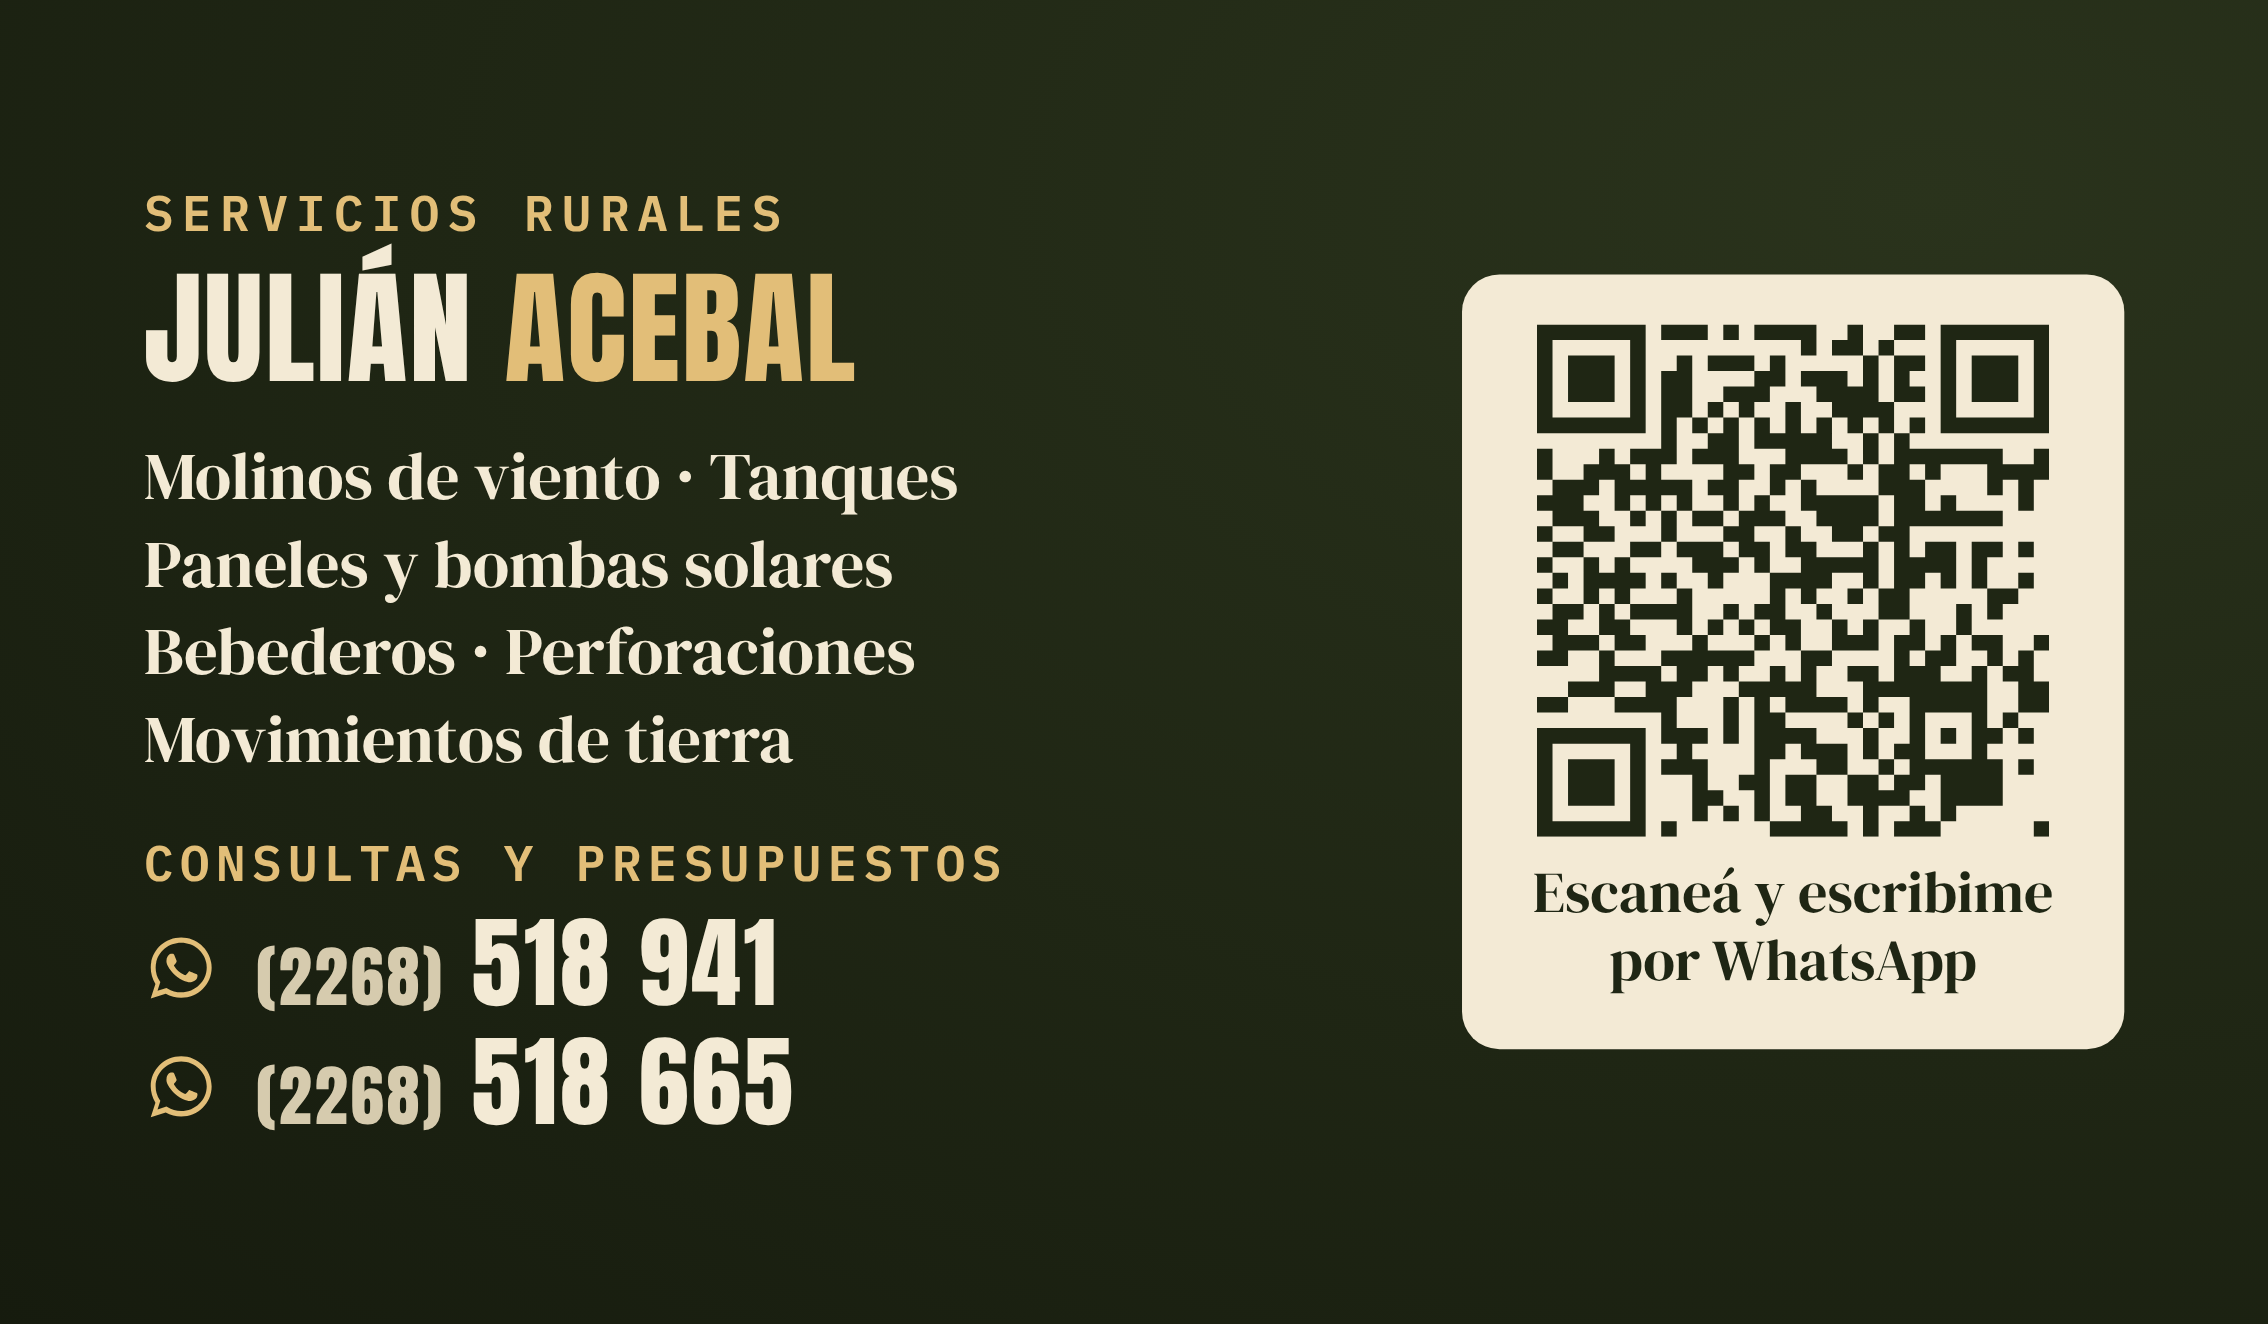
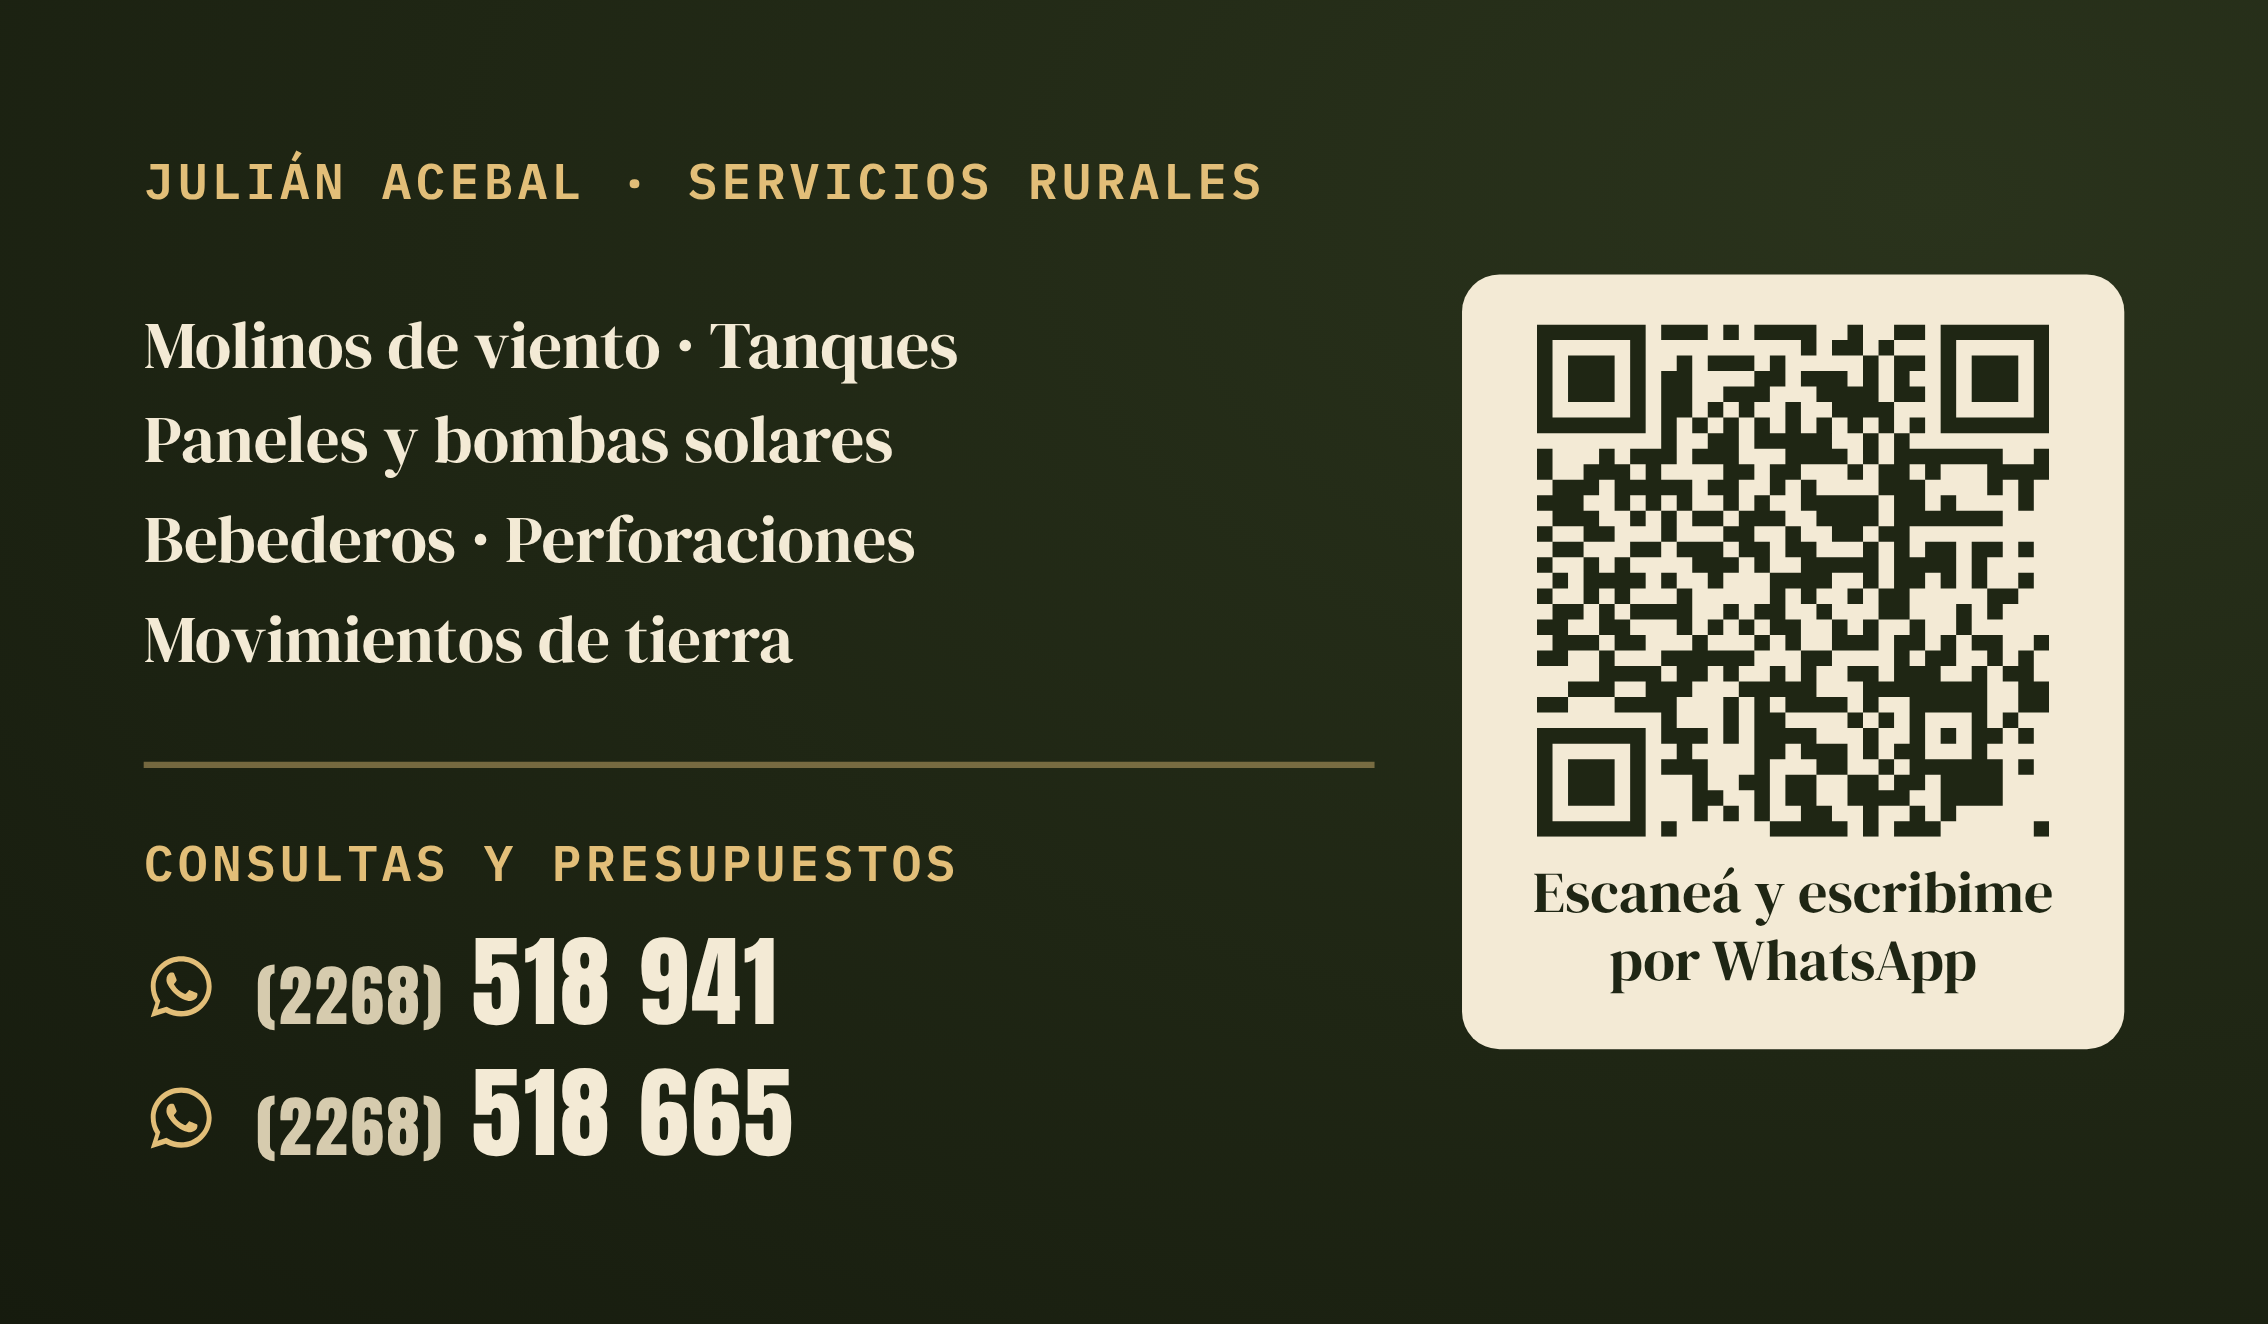
Tarjeta: dorso con más aire, servicios y contacto en dos grupos
Claude-Session: https://claude.ai/code/session_015aPumiBcapQc9Zahey1MkY

Changed region(s): [[0.0617, 0.1238, 0.5864, 0.5879], [0.0617, 0.6189, 0.4321, 0.8974]]

diff --git a/flyer-molinero/tarjeta/tarjeta-imprenta.html b/flyer-molinero/tarjeta/tarjeta-imprenta.html
@@ -21,14 +21,12 @@
 </div>
 </div></div>
 <div class="page" id="dorso"><div style="position: relative; width: 363px; height: 212px; overflow: hidden; box-sizing: border-box; padding: 23px 23px 23px 23px; background: radial-gradient(120% 120% at 85% 15%, #2A331C 0%, #1F2614 55%, #161B0E 100%); color: #F3EAD5; display: flex; gap: 14px; align-items: center; text-rendering: geometricPrecision; -webkit-font-smoothing: antialiased;">
-<div style="flex-grow: 1; display: flex; flex-direction: column; gap: 8px; min-width: 0;">
-<div style="display: flex; flex-direction: column; gap: 3px;">
-<div style="font-family: 'IBM Plex Mono', monospace; font-weight: 600; font-size: 8px; letter-spacing: 0.16em; color: #E2BE78;">SERVICIOS RURALES</div>
-<div style="font-family: Anton, sans-serif; font-size: 20px; line-height: 0.95; letter-spacing: 0.015em; white-space: nowrap;"><span style="color: #F3EAD5;">JULIÁN</span> <span style="color: #E2BE78;">ACEBAL</span></div>
-</div>
-<div style="font-family: 'DM Serif Display', serif; font-size: 10.7px; line-height: 1.3; color: #F3EAD5;">Molinos de viento · Tanques<br>Paneles y bombas solares<br>Bebederos · Perforaciones<br>Movimientos de tierra</div>
-<div style="display: flex; flex-direction: column; gap: 3px;">
-<div style="font-family: 'IBM Plex Mono', monospace; font-weight: 600; font-size: 8px; letter-spacing: 0.12em; color: #E2BE78;">CONSULTAS Y PRESUPUESTOS</div>
+<div style="flex-grow: 1; display: flex; flex-direction: column; gap: 0; min-width: 0;">
+<div style="font-family: 'IBM Plex Mono', monospace; font-weight: 600; font-size: 8px; letter-spacing: 0.08em; color: #E2BE78; white-space: nowrap;">JULIÁN ACEBAL · SERVICIOS RURALES</div>
+<div style="margin-top: 13px; font-family: 'DM Serif Display', serif; font-size: 10.7px; line-height: 1.45; color: #F3EAD5;">Molinos de viento · Tanques<br>Paneles y bombas solares<br>Bebederos · Perforaciones<br>Movimientos de tierra</div>
+<div style="margin-top: 12px; width: 100%; height: 0; border-top: 1px solid rgba(226,190,120,0.45);"></div>
+<div style="margin-top: 11px; font-family: 'IBM Plex Mono', monospace; font-weight: 600; font-size: 8px; letter-spacing: 0.08em; color: #E2BE78; white-space: nowrap;">CONSULTAS Y PRESUPUESTOS</div>
+<div style="margin-top: 6px; display: flex; flex-direction: column; gap: 5px;">
 <div style="display: flex; align-items: center; gap: 6px;">
 <svg width="12" height="12" viewBox="0 0 32 32" aria-hidden="true" style="flex: none;"><path fill="#E2BE78" d="M16 3C8.8 3 3 8.7 3 15.8c0 2.5.7 4.9 2 7L3 29l6.4-2c2 1.1 4.3 1.7 6.6 1.7 7.2 0 13-5.7 13-12.8S23.2 3 16 3zm0 23.4c-2.1 0-4.1-.6-5.9-1.7l-.4-.2-3.8 1.2 1.2-3.7-.3-.4a10.5 10.5 0 0 1-1.7-5.8C5.1 9.9 10 5.2 16 5.2s10.9 4.7 10.9 10.6S22 26.4 16 26.4zm6-7.9c-.3-.2-1.9-.9-2.2-1s-.5-.2-.7.2-.8 1-1 1.2-.4.2-.7.1a8.9 8.9 0 0 1-4.4-3.8c-.3-.6.3-.5 1-1.8.1-.2 0-.4 0-.6l-1-2.4c-.3-.6-.5-.5-.7-.5h-.6c-.2 0-.6.1-.9.4s-1.1 1.1-1.1 2.7 1.2 3.1 1.3 3.3c.2.2 2.3 3.5 5.6 4.9 2.1.9 2.9 1 3.9.8.6-.1 1.9-.8 2.2-1.5.3-.7.3-1.4.2-1.5-.1-.3-.3-.4-.7-.5z"></path></svg>
 <div style="font-family: Anton, sans-serif; font-size: 16px; line-height: 1; letter-spacing: 0.03em; color: #F3EAD5;"><span style="font-size: 10.7px; color: #D6CBAE;">(2268)</span> 518 941</div>
